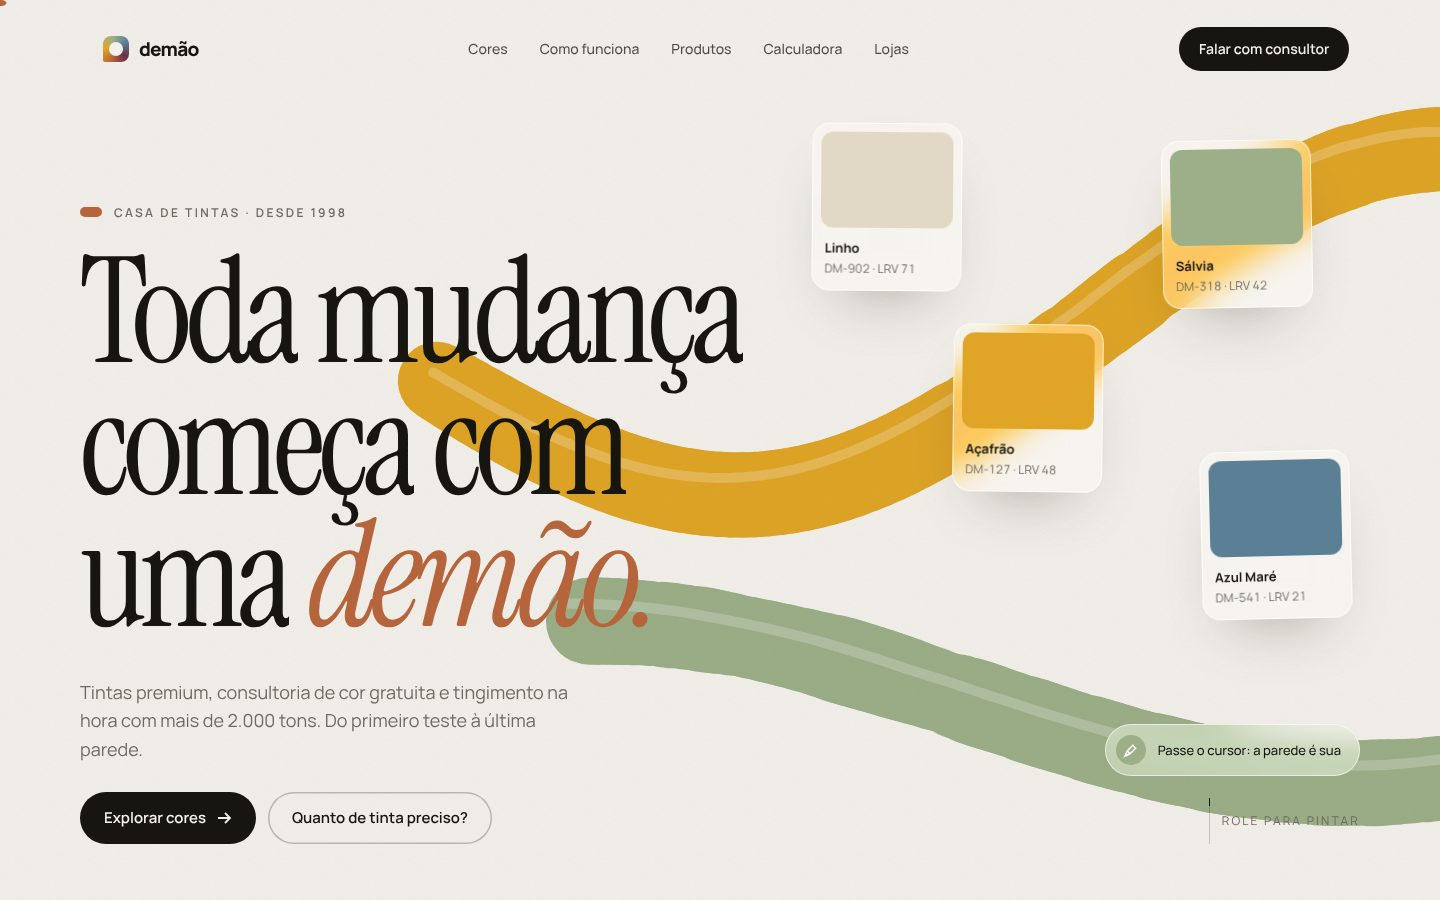
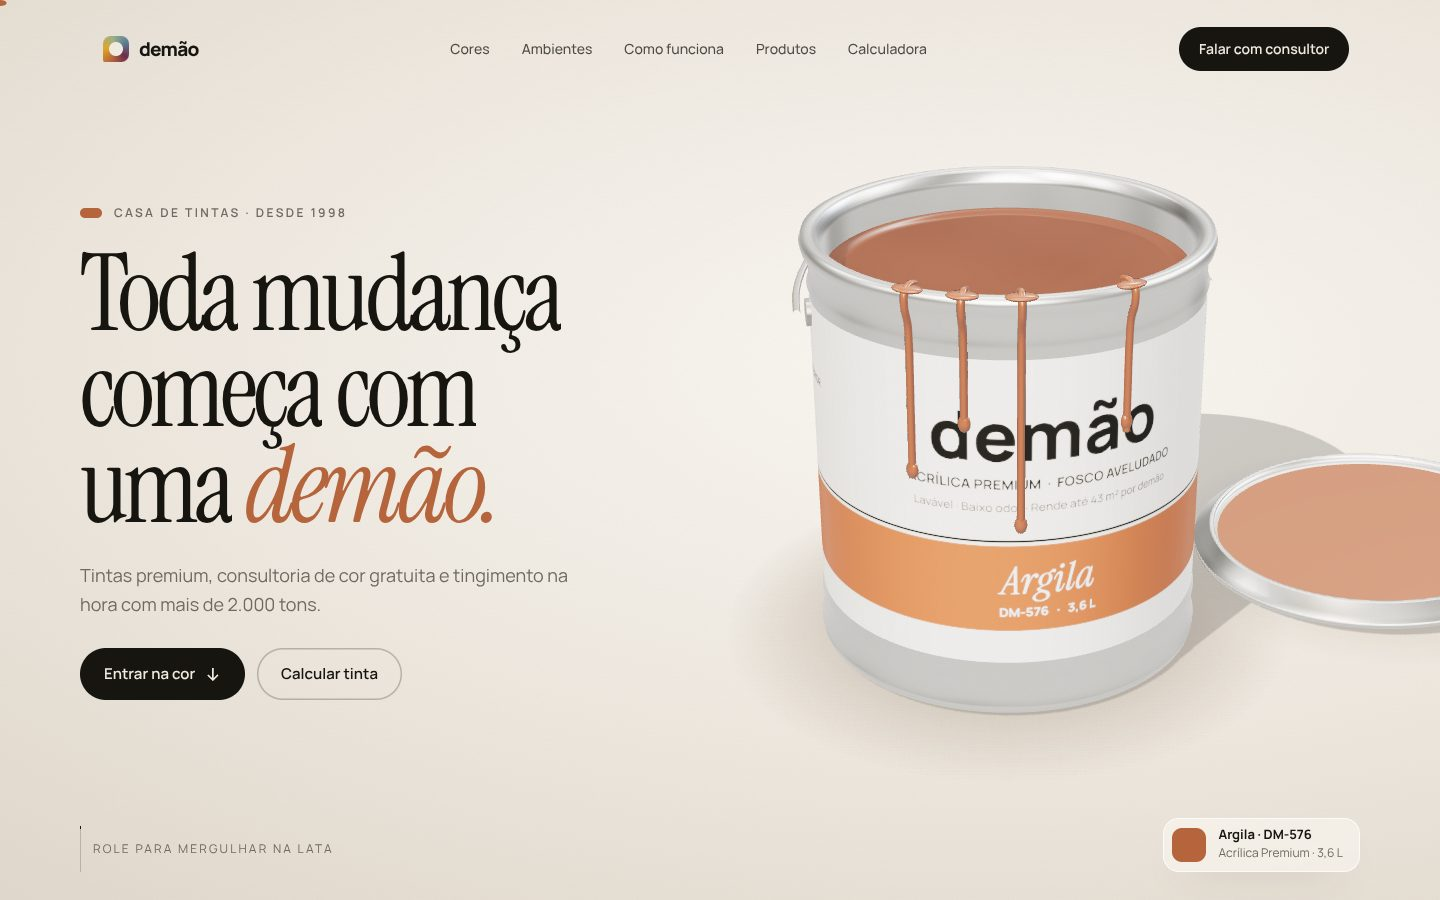
Demão: ajustes da lata 3D, máscara embutida e correções no celular
- Tinta 3D com a mesma cor do resto da página; escorridos mais finos
- Máscara da parede embutida no CSS (funciona também abrindo o arquivo direto)
- Simulador não transborda mais no celular; botão Ver lojas volta no final
- Capas atualizadas

Claude-Session: https://claude.ai/code/session_01QmiPwf8PA3jtst3JjzSxnw

diff --git a/modelos/demao-tintas/index.html b/modelos/demao-tintas/index.html
@@ -153,6 +153,7 @@
   .cores { padding: 40px 0 clamp(100px, 14vh, 170px); }
   .sec-head { display: flex; justify-content: space-between; align-items: flex-end; gap: 24px 32px; flex-wrap: wrap; margin-bottom: 52px; }
   .cores-grid { display: grid; grid-template-columns: 1.5fr 1fr; gap: 24px; align-items: start; }
+  .cores-grid > *, .dentro-grid > *, .calc-box > * { min-width: 0; }
   .room { position: relative; border-radius: 28px; overflow: hidden; aspect-ratio: 3 / 2; background: #e9e2d8; box-shadow: 0 50px 100px -50px rgba(40,30,20,.5); }
   .room > img, .room .gray, .room .tint { position: absolute; inset: 0; width: 100%; height: 100%; }
   .room > img { object-fit: cover; }
@@ -400,7 +401,7 @@
     .calc-out .liters { font-size: 92px; }
     .seg button { font-size: 12px; padding: 10px 4px; }
     .final h2 { font-size: 54px; }
-    .stage-actions .btn.ghost { display: none; }
+    .stage-copy .btn.ghost { display: none; }
     .rail-hint span { font-size: 12px; }
   }
   @media (prefers-reduced-motion: reduce) {
@@ -835,7 +836,7 @@
     // materiais
     const metal = new T.MeshStandardMaterial({ color: 0xd4d2cd, metalness: 1, roughness: .26, envMapIntensity: 1.15, side: T.DoubleSide });
     const metalDark = new T.MeshStandardMaterial({ color: 0xb9b5ad, metalness: 1, roughness: .34 });
-    const paintMat = new T.MeshPhysicalMaterial({ color: new T.Color(chosen.hex), roughness: .16, clearcoat: 1, clearcoatRoughness: .06, envMapIntensity: .9 });
+    const paintMat = new T.MeshPhysicalMaterial({ color: new T.Color(chosen.hex), roughness: .2, clearcoat: .8, clearcoatRoughness: .08, envMapIntensity: .55 });
     const dripMat = new T.MeshPhysicalMaterial({ color: new T.Color(chosen.hex), roughness: .18, clearcoat: 1, clearcoatRoughness: .08 });
 
     const group = new T.Group(); scene.add(group);
@@ -915,10 +916,10 @@
     [[-0.66, .62], [-0.4, .34], [-0.14, .86], [0.38, .5]].forEach(([ang, len]) => {
       const at = (r, y) => new T.Vector3(Math.sin(ang) * r, y, Math.cos(ang) * r);
       const curve = new T.CatmullRomCurve3([at(.95, 2.252), at(1.0, 2.262), at(1.046, 2.236), at(1.05, 2.17), at(1.024, 2.08), at(1.017, 1.96), at(1.017, 1.96 - len * .5), at(1.017, 1.96 - len)]);
-      const geo = new T.TubeGeometry(curve, 80, .024, 10, false);
+      const geo = new T.TubeGeometry(curve, 80, .019, 10, false);
       const m = new T.Mesh(geo, dripMat); m.castShadow = true;
-      const bead = new T.Mesh(new T.SphereGeometry(.036, 18, 14), dripMat); bead.scale.set(1, 1.35, .75); bead.rotation.y = ang;
-      const pool = new T.Mesh(new T.SphereGeometry(.07, 18, 10), dripMat); pool.scale.set(1.3, .32, .8); pool.position.copy(at(1.0, 2.258)); pool.rotation.y = ang;
+      const bead = new T.Mesh(new T.SphereGeometry(.036, 18, 14), dripMat); bead.scale.set(.85, 1.25, .6); bead.rotation.y = ang;
+      const pool = new T.Mesh(new T.SphereGeometry(.07, 18, 10), dripMat); pool.scale.set(1.1, .22, .7); pool.position.copy(at(1.02, 2.25)); pool.rotation.y = ang;
       [m, bead, pool].forEach((o) => { o.visible = false; group.add(o); });
       drips.push({ m, bead, pool, curve, count: geo.index.count });
     });
@@ -988,7 +989,7 @@
     const seg = (t, [a, b]) => clamp((t - a) / (b - a));
     const LID_FROM = new T.Vector3(), LID_TO = new T.Vector3(2.15, 0.085, -0.75), tmp = new T.Vector3();
 
-    function setPaint(hex) { paintMat.color.set(hex).multiplyScalar(.68); dripMat.color.set(hex).multiplyScalar(.74); drawLabel(hex, chosen.name); }
+    function setPaint(hex) { paintMat.color.set(hex).multiplyScalar(.5); dripMat.color.set(hex).multiplyScalar(.58); drawLabel(hex, chosen.name); }
     setPaint(chosen.hex);
     drawLabel(chosen.hex, chosen.name);
     document.fonts && document.fonts.ready.then(() => drawLabel(chosen.hex, chosen.name));
@@ -1033,7 +1034,7 @@
         if (!show) return;
         d.m.geometry.setDrawRange(0, Math.max(60, Math.floor(d.count * g / 60) * 60));
         d.bead.position.copy(d.curve.getPoint(Math.max(.02, g)));
-        d.pool.scale.set(1.3 * Math.min(1, g * 3), .32, .8);
+        d.pool.scale.set(1.1 * Math.min(1, g * 3), .22, .7);
       });
 
       // pingos automáticos para a tinta não ficar parada
